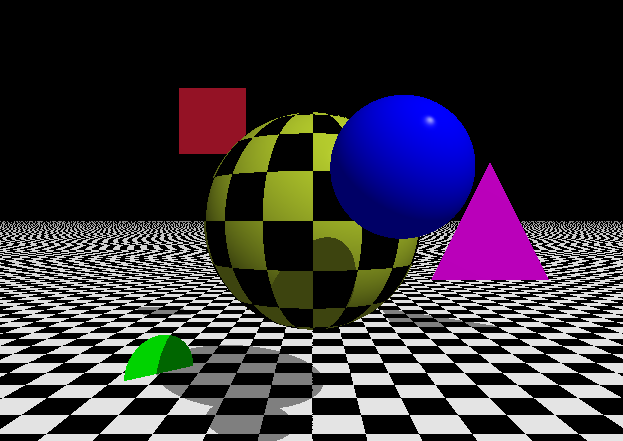
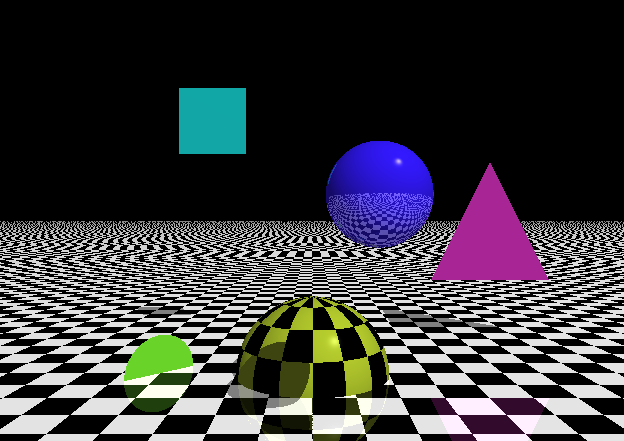
Reflections

Changed region(s): [[0.122, 0.1769, 1.0, 1.0], [0.6709, 0.8844, 0.8844, 1.0]]

diff --git a/Source/RayTracy/Renderer.cpp b/Source/RayTracy/Renderer.cpp
@@ -2,7 +2,7 @@
 #include "SceneLoader.h"
 #include <iostream>
 
-Renderer::Renderer()
+Renderer::Renderer() : maxDepth(3)
 {
 }
 
@@ -23,28 +23,62 @@ void Renderer::Render(uint8_t* buffer, uint32_t width, uint32_t height)
     {
         for (uint32_t x = 0; x < width; x++)
         {
-            Material material;
-            Vector3 normal;
             auto ray = GetPrimaryRay(width, height, x, y, PI / 4);
-            float minDistance = INFINITY, minU, minV;
-            bool hasIntersection = false;
-
-            for (auto& object : scene.objects) {
-                float distance, u, v;
-                Vector3 n;
-                if (object->HasIntersection(ray, &distance, &n, &u, &v) && distance < minDistance) {
-                    hasIntersection = true;
-                    material = object->material;
-                    minDistance = distance;
-                    normal = n;
-                    minU = u;
-                    minV = v;
-                }
-            }
-
-            SetPixel(buffer, width, x, y, hasIntersection ? CalculateColor(material, normal, ray, minDistance, minU, minV) : scene.backgroundColor);
+            auto color = CastRay(ray, 0);
+            SetPixel(buffer, width, x, y, color);
         }
     }
+}
+
+Vector3 Renderer::RestrictColor(Vector3 color) const
+{
+    if (color.x > 1) {
+        color.x = 1;
+    }
+
+    if (color.y > 1) {
+        color.y = 1;
+    }
+
+    if (color.z > 1) {
+        color.z = 1;
+    }
+
+    return color;
+}
+
+Vector3 Renderer::CastRay(Ray ray, uint32_t depth) const
+{
+    Material material;
+    Vector3 normal;
+    
+    float minDistance = INFINITY, minU, minV;
+    bool hasIntersection = false;
+
+    for (auto& object : scene.objects) {
+        float distance, u, v;
+        Vector3 n;
+        if (object->HasIntersection(ray, &distance, &n, &u, &v) && distance < minDistance) {
+            hasIntersection = true;
+            material = object->material;
+            minDistance = distance;
+            normal = n;
+            minU = u;
+            minV = v;
+        }
+    }
+
+    auto color = hasIntersection ? CalculateColor(material, normal, ray, minDistance, minU, minV) : scene.backgroundColor;
+    if (hasIntersection && material.reflectivity > 0 && depth < maxDepth) {
+        Ray reflected;
+        reflected.direction = ray.direction - normal * (2 * Dot(normal, ray.direction));
+        reflected.direction.Normalize();
+        reflected.origin = (ray.origin + ray.direction * minDistance) + reflected.direction * 0.0001;
+        auto reflectedColor = CastRay(reflected, depth + 1);
+        color = color + reflectedColor * material.reflectivity;
+    }
+    
+    return RestrictColor(color);
 }
 
 void Renderer::SetPixel(uint8_t* buffer, uint32_t width, uint32_t x, uint32_t y, Vector3 color) const
@@ -104,19 +138,7 @@ Vector3 Renderer::CalculateColor(Material material, Vector3 normal, Ray ray, flo
         }
     }
 
-    if (color.x > 1) {
-        color.x = 1;
-    }
-
-    if (color.y > 1) {
-        color.y = 1;
-    }
-
-    if (color.z > 1) {
-        color.z = 1;
-    }
-
-    return color;
+    return RestrictColor(color);
 }
 
 bool Renderer::CheckIntersection(Ray ray, float maxDistance) const

diff --git a/Source/RayTracy/Renderer.h b/Source/RayTracy/Renderer.h
@@ -17,7 +17,10 @@ public:
 
 private:
     Scene scene;
+    uint32_t maxDepth;
 
+    Vector3 RestrictColor(Vector3 color) const;
+    Vector3 CastRay(Ray ray, uint32_t depth) const;
     Ray GetPrimaryRay(uint32_t width, uint32_t height, uint32_t x, uint32_t y, float fov) const;
     void SetPixel(uint8_t* buffer, uint32_t width, uint32_t x, uint32_t y, Vector3 color) const;
     Vector3 CalculateColor(Material material, Vector3 normal, Ray ray, float distance, float u, float v) const;

diff --git a/Source/RayTracy/SceneLoader.cpp b/Source/RayTracy/SceneLoader.cpp
@@ -77,6 +77,7 @@ bool SceneLoader::ParseVector(Vector3& vector) {
     LookForFloat("ks", material.Ks);                            \
     LookForFloat("spow", material.S);                           \
     LookForFloat("textureScale", material.textureScale);        \
+    LookForFloat("reflectivity", material.reflectivity);        \
     LookForInt("texture", material.texture);
 
 #define RequireInt(fieldName, description, field)                               \

diff --git a/Source/RayTracy/Geometry.h b/Source/RayTracy/Geometry.h
@@ -14,7 +14,7 @@ struct Ray
 
 struct Material
 {
-    float Ka, Kd, Ks, S, textureScale;
+    float Ka, Kd, Ks, S, textureScale, reflectivity;
     Vector3 color;
     int texture;
 
@@ -25,7 +25,8 @@ struct Material
         color{Vector3{0, 0, 0}},
         S{ 0 },
         texture{ -1 },
-        textureScale{ 1 }
+        textureScale{ 1 },
+        reflectivity{ 0 }
     {
     }
 };
